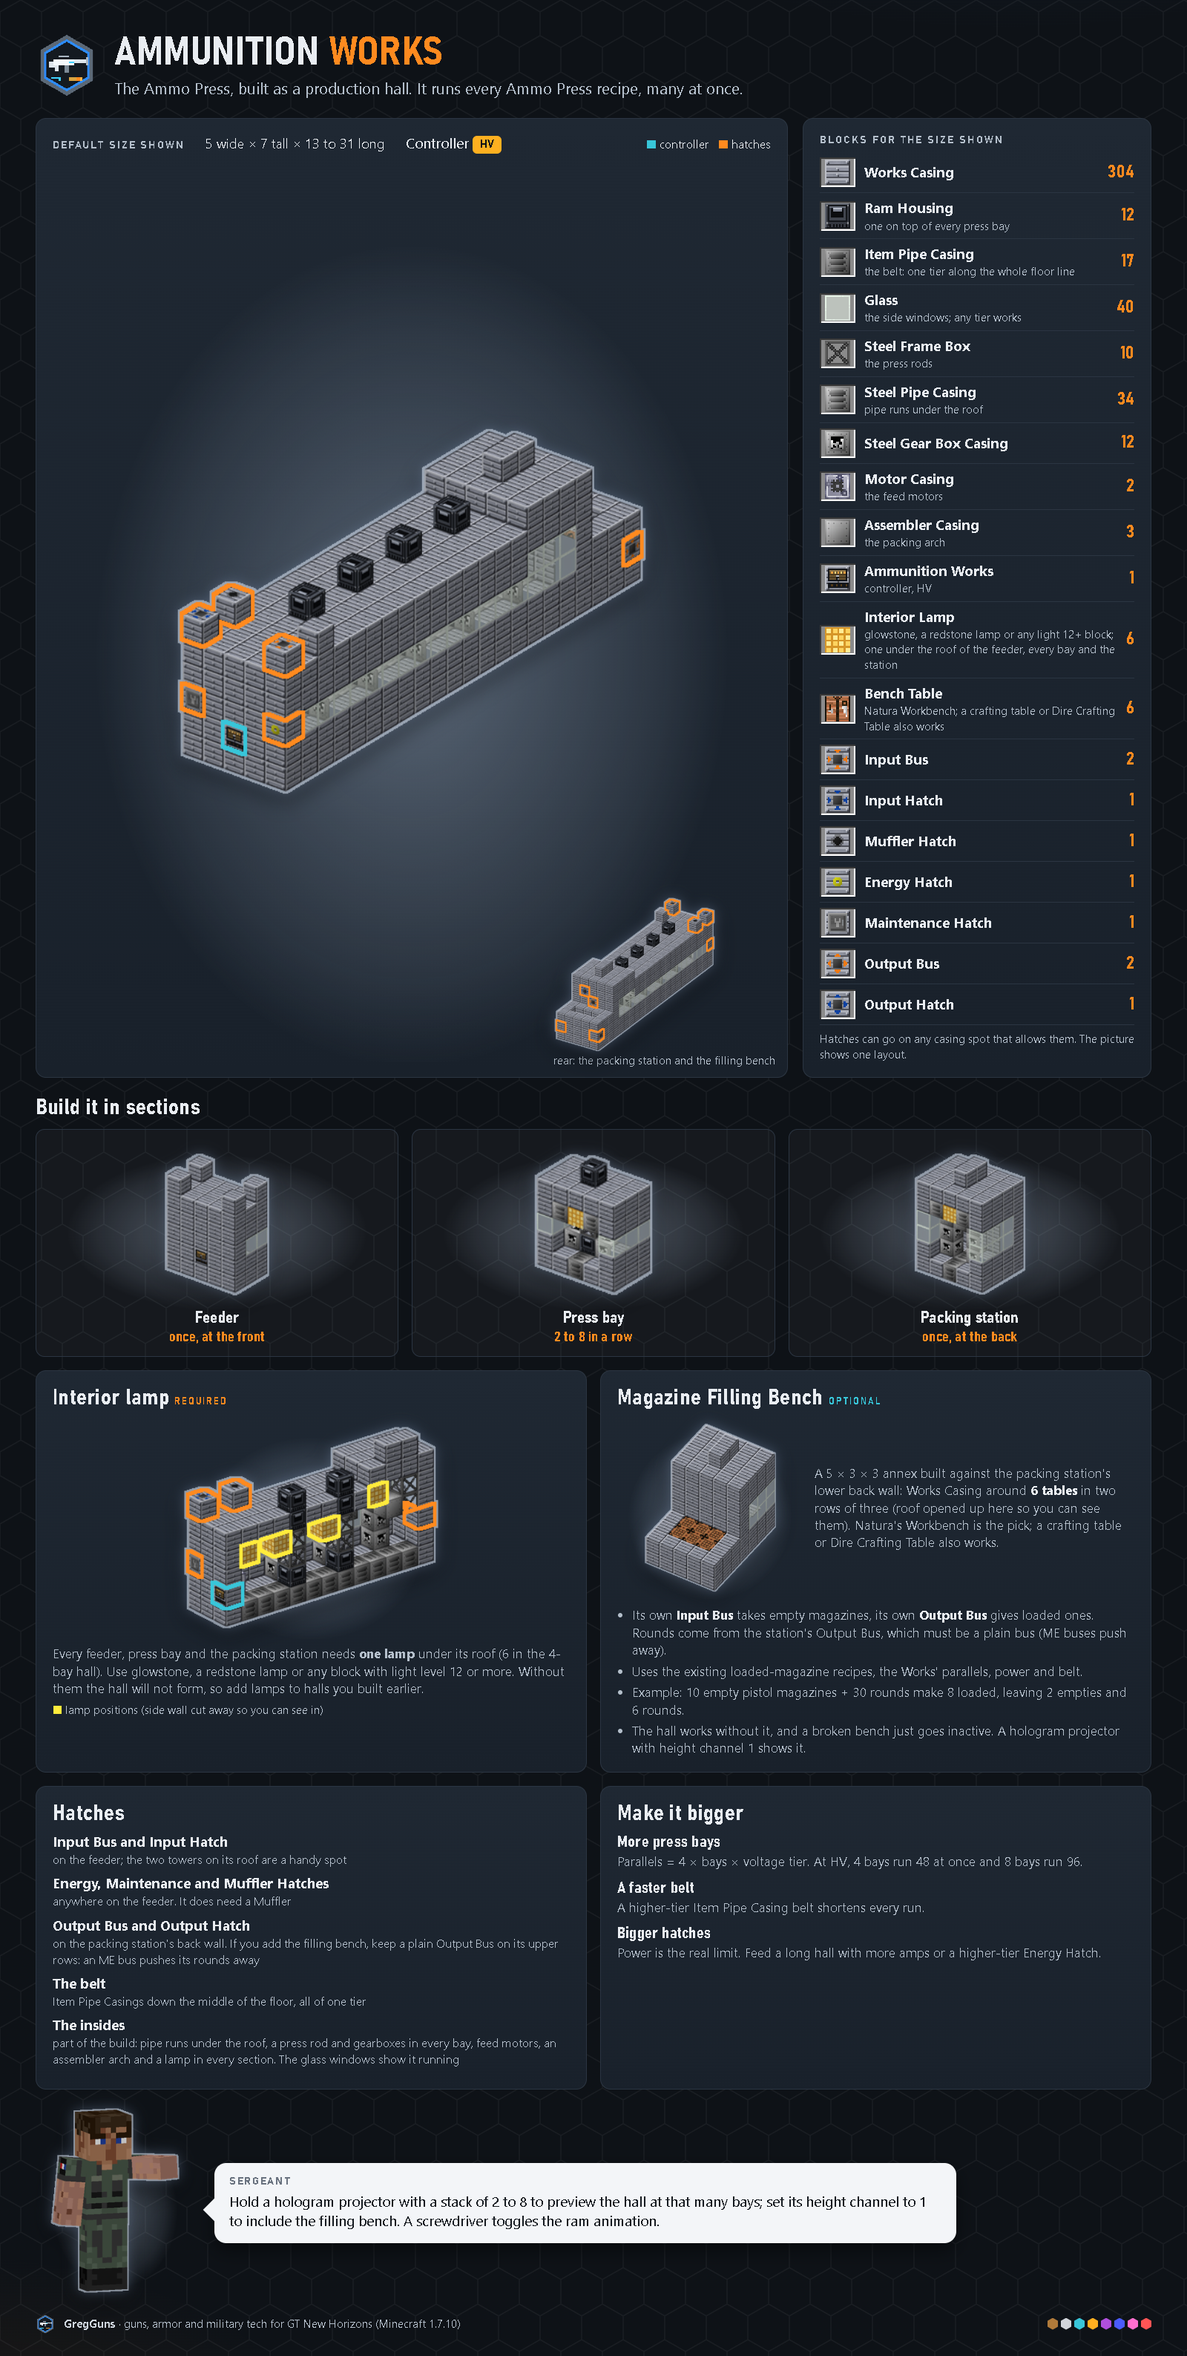
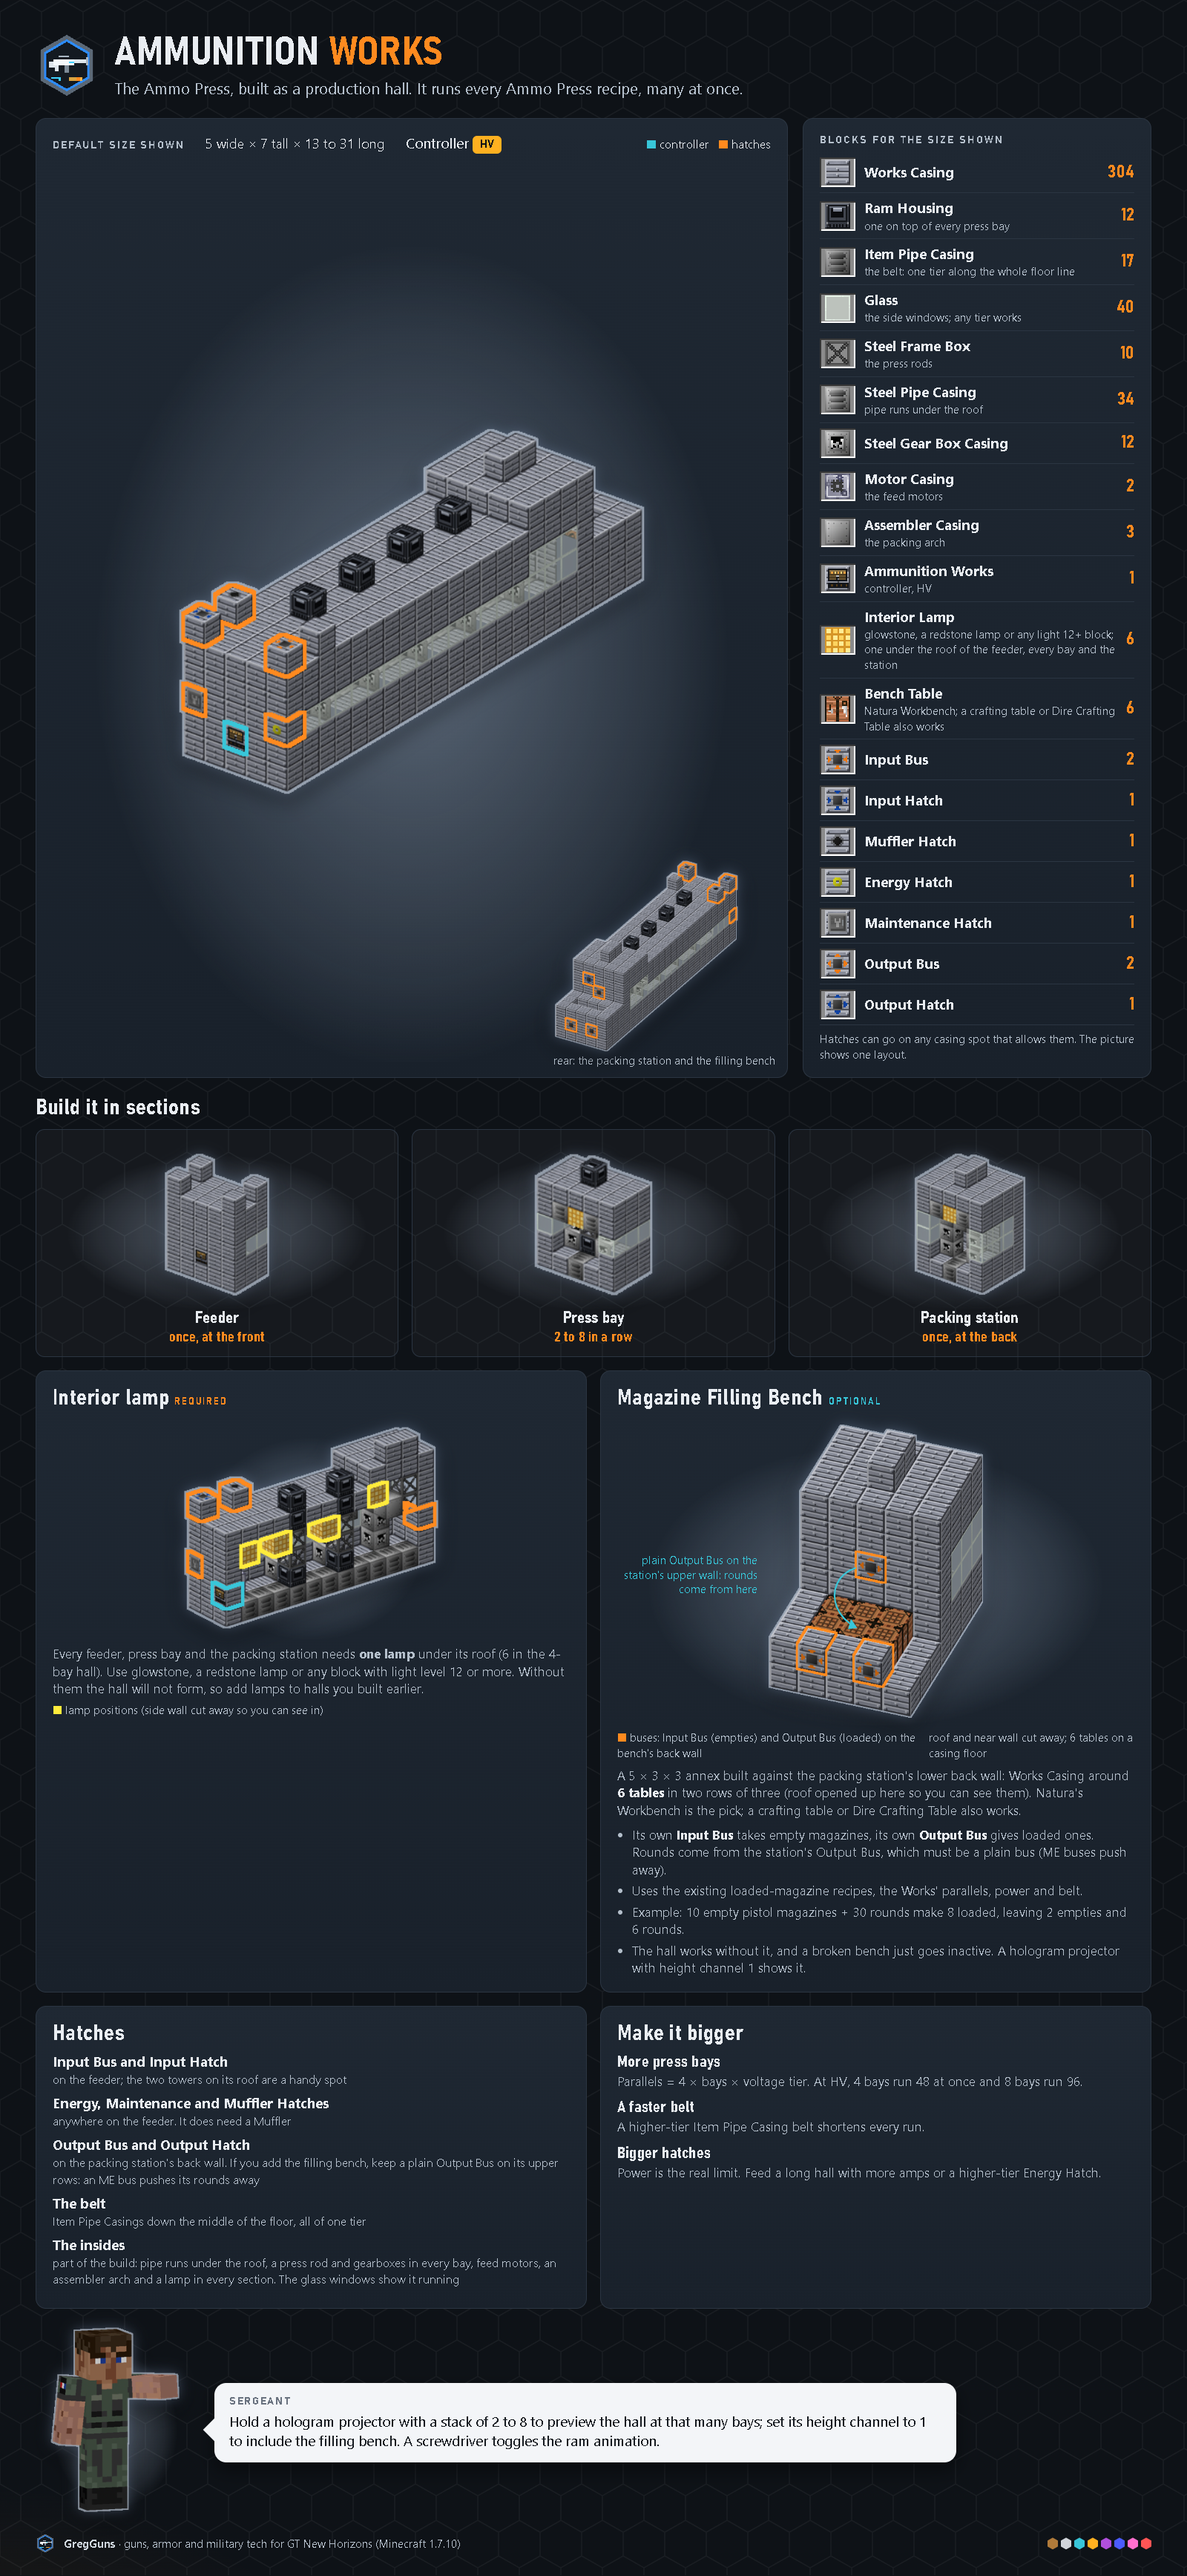
Infographics: clearer Magazine Filling Bench card (cutaway, ringed buses, station bus flow arrow) and larger rear inset

diff --git a/tools/asset-gen/infographics/pages_more.py b/tools/asset-gen/infographics/pages_more.py
@@ -204,7 +204,7 @@ MB = {
     "ammunition-works": dict(
         title="Ammunition <b>Works</b>",
         sub="The Ammo Press, built as a production hall. It runs every Ammo Press recipe, many at once.",
-        build=lambda: S.ammo_works(4, bench=True), view=dict(yaw=-38, pitch=28, ppu=28), back=dict(yaw=148, pitch=28, ppu=24),
+        build=lambda: S.ammo_works(4, bench=True), view=dict(yaw=-38, pitch=28, ppu=28), back=dict(yaw=150, pitch=30, ppu=30),
         cut=dict(build=lambda: S.ammo_works(2), cut=lambda x, y, z: x <= 1, view=dict(yaw=-52, pitch=24, ppu=24)),
         lamp_text="Every feeder, press bay and the packing station needs <b>one lamp</b> under its roof (6 in the 4-bay hall). "
                   "Use glowstone, a redstone lamp or any block with light level 12 or more. Without them the hall will not form, "
@@ -264,12 +264,19 @@ MB = {
 
 
 def bench_card():
-    img_ = S.ammo_works(2, only="STATION", bench=True).render(yaw=148, pitch=42, ppu=38, tag="benchpiece", marks=True,
-                                                                     cut=lambda x, y, z: z >= 4 and y >= 2)
+    b = S.ammo_works(2, only="STATION", bench=True)
+    zb = 4  # the bench starts right behind the four-aisle station
+    img_ = b.render(yaw=160, pitch=36, ppu=56, tag="benchpiece3", marks=True,
+                    cut=lambda x, y, z: z >= zb and (y >= 2 or (x == 4 and y >= 1)))
     return f"""<div class="card"><h2 style="margin-bottom:8px">Magazine Filling Bench <span class="label" style="color:var(--cyan)">optional</span></h2>
-<div style="display:flex;gap:16px;align-items:center">
-<div class="spot" style="flex:0 0 250px;display:flex;align-items:center;justify-content:center;padding:8px 0">{img(img_, h=230, style="max-width:100%")}</div>
-<div style="font-size:17px">{muted("A 5 &times; 3 &times; 3 annex built against the packing station's lower back wall: Works Casing around <b style='color:var(--txt)'>6 tables</b> in two rows of three (roof opened up here so you can see them). Natura's Workbench is the pick; a crafting table or Dire Crafting Table also works.", 17, 0)}</div></div>
+<div class="spot" style="display:flex;align-items:center;justify-content:center;padding:8px 0;margin-bottom:6px">
+<div style="position:relative;display:inline-block;line-height:0">{img(img_, h=400)}
+<svg viewBox="0 0 100 100" preserveAspectRatio="none" style="position:absolute;inset:0;width:100%;height:100%;overflow:visible">
+<defs><marker id="ah" markerWidth="6" markerHeight="6" refX="5" refY="3" orient="auto"><path d="M0 0 6 3 0 6z" fill="#38c6d9"/></marker></defs>
+<path d="M 41 49 C 28 52 28 64 41 69" fill="none" stroke="#38c6d9" stroke-width="2.2" vector-effect="non-scaling-stroke" marker-end="url(#ah)"/></svg>
+<div style="position:absolute;left:-12px;top:44%;transform:translateX(-100%);font-size:15px;line-height:1.3;color:#38c6d9;text-align:right;width:190px">plain Output Bus on the station's upper wall: rounds come from here</div></div></div>
+<div class="muted" style="display:flex;justify-content:space-between;gap:16px;font-size:15px;margin-bottom:8px"><span><b style="color:var(--orange)">&#9632;</b> buses: Input Bus (empties) and Output Bus (loaded) on the bench's back wall</span><span>roof and near wall cut away; 6 tables on a casing floor</span></div>
+{muted("A 5 &times; 3 &times; 3 annex built against the packing station's lower back wall: Works Casing around <b style='color:var(--txt)'>6 tables</b> in two rows of three (roof opened up here so you can see them). Natura's Workbench is the pick; a crafting table or Dire Crafting Table also works.", 17, 0)}
 <ul style="margin:10px 0 0 20px;font-size:17px;color:var(--muted);display:flex;flex-direction:column;gap:5px">
 <li>Its own <b style="color:var(--txt)">Input Bus</b> takes empty magazines, its own <b style="color:var(--txt)">Output Bus</b> gives loaded ones. Rounds come from the station's Output Bus, which must be a plain bus (ME buses push away).</li>
 <li>Uses the existing loaded-magazine recipes, the Works' parallels, power and belt.</li>
@@ -295,7 +302,7 @@ def multiblock(key):
     back = ""
     if m["back"]:
         back = (f'<div style="position:absolute;right:16px;bottom:12px;text-align:center">'
-                f'{img(b.render(**m["back"], tag="back", marks=True), h=210)}<div class="muted" style="font-size:15px">rear: the packing station and the filling bench</div></div>')
+                f'{img(b.render(**m["back"], tag="back", marks=True), h=260)}<div class="muted" style="font-size:15px">rear: the packing station and the filling bench</div></div>')
     extra = ""
     if m.get("cut"):
         c = m["cut"]

diff --git a/tools/asset-gen/infographics/scenes.py b/tools/asset-gen/infographics/scenes.py
@@ -209,6 +209,13 @@ def ammo_works(bays=4, only=None, bench=False) -> Build:
     cells = B.stack_aisles(pieces)
     b.put(cells, {"S": "lamp", "T": "table", "K": "works", "F": "works", "A": "works", "O": "works", "M": "ram", "I": "belt", "G": "glass", "R": "frame",
                   "P": "pipe", "B": "gearbox", "N": "motor", "Y": "assembler", "~": ("ctrl", FRONT)})
+    if only == "STATION" and bench:
+        # the close-up of the annex: the station's plain Output Bus and the bench's two buses
+        last = max(p[2] for p in cells)
+        b.hatch((2, 3, 3), "output_bus", BACK, wc)
+        b.hatch((1, 1, last), "input_bus", BACK, wc)
+        b.hatch((3, 1, last), "output_bus", BACK, wc)
+        return b
     if only:
         return b
     last = max(p[2] for p in cells)
@@ -223,8 +230,8 @@ def ammo_works(bays=4, only=None, bench=False) -> Build:
         sl = max(p[2] for p in sl)
         b.hatch((2, 3, sl), "output_bus", BACK, wc)
         b.hatch((1, 4, sl), "output_hatch", BACK, wc)
-        b.hatch((0, 1, last), "input_bus", LEFT, wc)
-        b.hatch((4, 1, last), "output_bus", RIGHT, wc)
+        b.hatch((1, 1, last), "input_bus", BACK, wc)
+        b.hatch((3, 1, last), "output_bus", BACK, wc)
     else:
         b.hatch((2, 2, last), "output_bus", BACK, wc)
         b.hatch((1, 3, last), "output_hatch", BACK, wc)

diff --git a/docs/assets/MANIFEST.md b/docs/assets/MANIFEST.md
@@ -939,7 +939,7 @@ The machine-readable twin is [tools/asset-gen/manifest.json](../../tools/asset-g
 | `info.ammo_and_magazines` | `docs/assets/infographics/ammo-and-magazines.png` | 1600x2037 | Player guide: GT materials to parts to the Ammo Press to magazines; magazine sizes; ammo per tier. Built by tools/asset-gen/infographics/build.py; no vector source. [Delivered: generated by tools/asset-gen/branding.py.] | #808080 #FF8000 #101418 #F2F2F2 | (new) | P2 |
 | `info.armor_and_gear` | `docs/assets/infographics/armor-and-gear.png` | 1600x2101 | Player guide: the twelve armor sets on figures, masks and back gear, damage types. Built by tools/asset-gen/infographics/build.py; no vector source. [Delivered: generated by tools/asset-gen/branding.py.] | #808080 #FF8000 #101418 #F2F2F2 | (new) | P2 |
 | `info.machines` | `docs/assets/infographics/machines.png` | 1600x1457 | Player guide: each single block machine beside its multiblock, rendered; notes the Works' optional filling bench. Built by tools/asset-gen/infographics/build.py; no vector source. [Delivered: generated by tools/asset-gen/branding.py.] | #808080 #FF8000 #101418 #F2F2F2 | (new) | P2 |
-| `info.multiblock_ammunition_works` | `docs/assets/infographics/multiblock-ammunition-works.png` | 1600x3174 | Build guide: Ammunition Works, with block counts, sections, the required interior lamp, the optional Magazine Filling Bench, hatches and scaling. Built by tools/asset-gen/infographics/build.py; no vector source. [Delivered: generated by tools/asset-gen/branding.py.] | #808080 #FF8000 #101418 #F2F2F2 | (new) | P3 |
+| `info.multiblock_ammunition_works` | `docs/assets/infographics/multiblock-ammunition-works.png` | 1600x3470 | Build guide: Ammunition Works, with block counts, sections, the required interior lamp, the optional Magazine Filling Bench, hatches and scaling. Built by tools/asset-gen/infographics/build.py; no vector source. [Delivered: generated by tools/asset-gen/branding.py.] | #808080 #FF8000 #101418 #F2F2F2 | (new) | P3 |
 | `info.multiblock_armory_gantry` | `docs/assets/infographics/multiblock-armory-gantry.png` | 1600x2787 | Build guide: Armory Gantry, with block counts, sections, the required interior lamp, hatches and scaling. Built by tools/asset-gen/infographics/build.py; no vector source. [Delivered: generated by tools/asset-gen/branding.py.] | #808080 #FF8000 #101418 #F2F2F2 | (new) | P3 |
 | `info.multiblock_rampart` | `docs/assets/infographics/multiblock-rampart.png` | 1600x1841 | Build guide: Rampart, with block counts, sections, hatches and scaling. Built by tools/asset-gen/infographics/build.py; no vector source. [Delivered: generated by tools/asset-gen/branding.py.] | #808080 #FF8000 #101418 #F2F2F2 | (new) | P3 |
 | `info.enemies` | `docs/assets/infographics/enemies.png` | 1600x3573 | Player guide: mobs by danger, rendered, plus structures and loot. Built by tools/asset-gen/infographics/build.py; no vector source. [Delivered: generated by tools/asset-gen/branding.py.] | #808080 #FF8000 #101418 #F2F2F2 | (new) | P2 |
